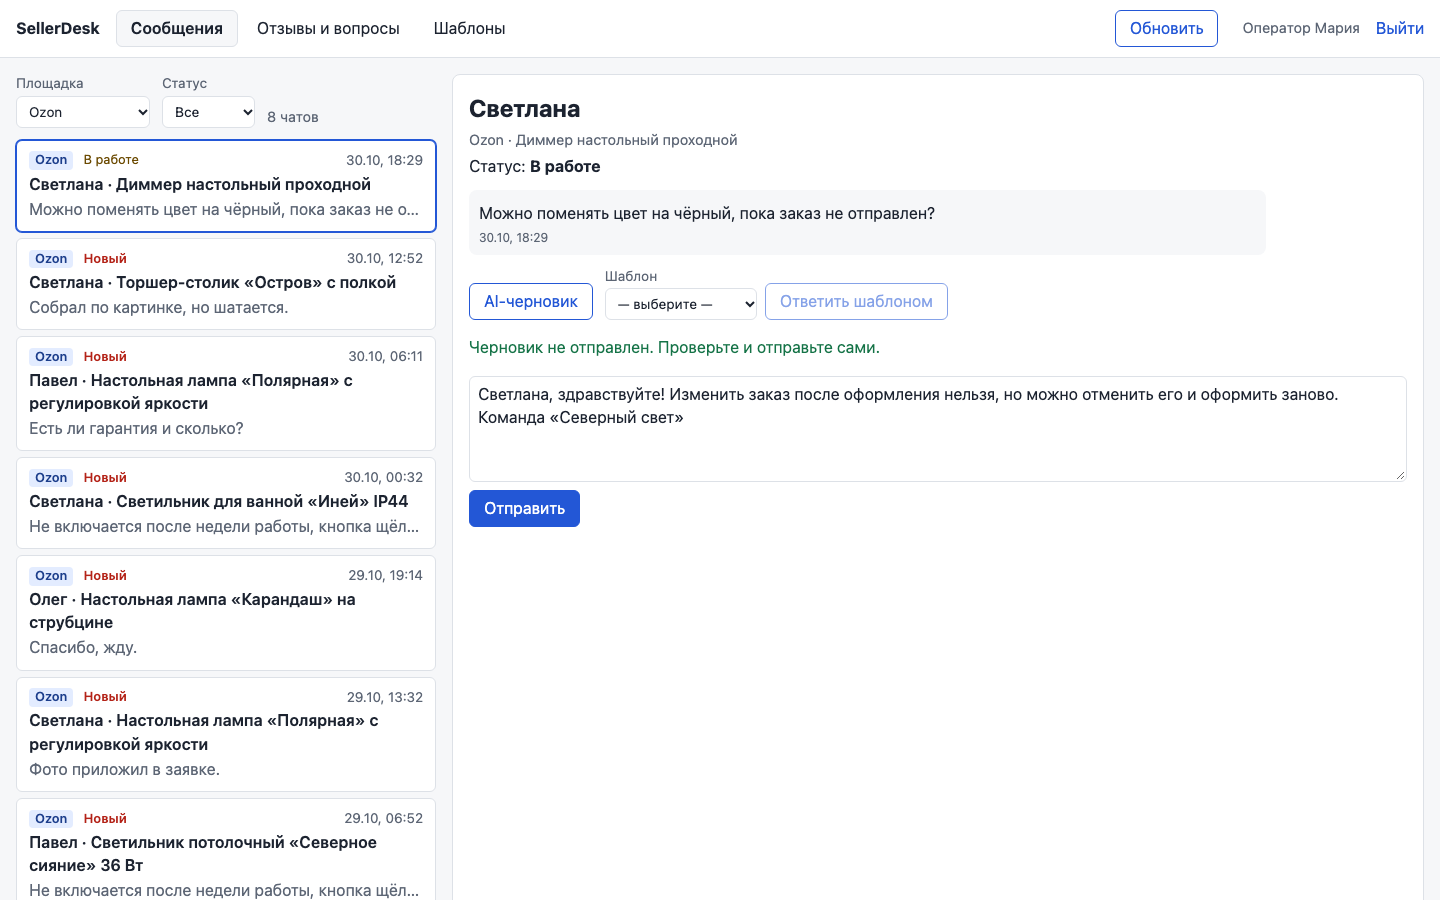
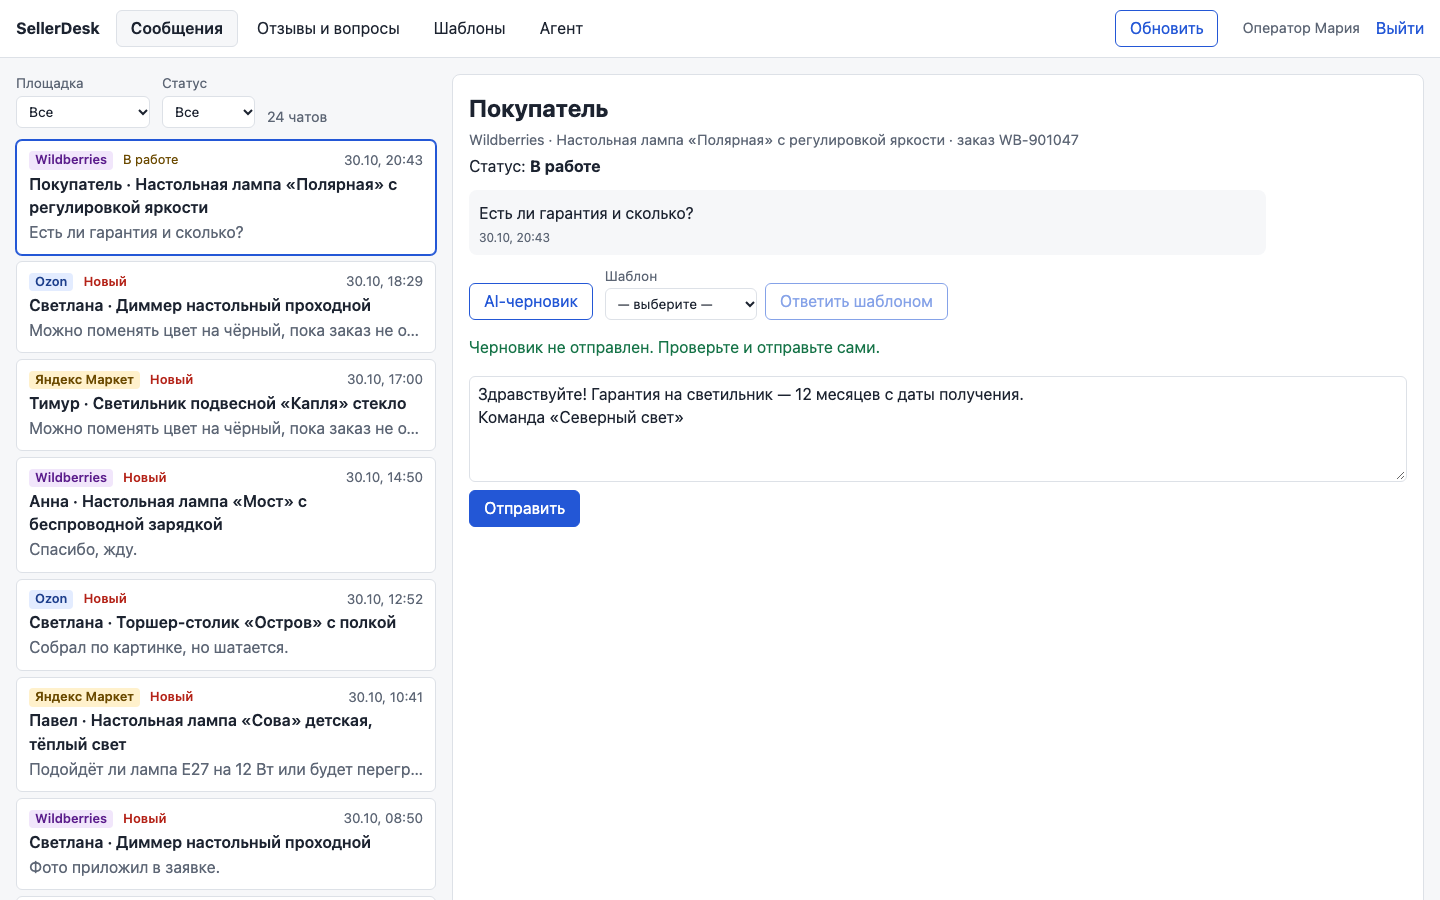
docs: третий круг ревью SD-01…SD-06 в 04, агент в анализе, разведённые BPMN
Круг SD (версия 0.4) добавлен в 04, агент — круги 4 и 5; итого 43 находки.
US-07, UC-07/08 с Таймером и LLM, таблицы agent_* в ER, трассировка US-07.
Ветки шлюзов в as-is и to-be не идут сквозь задачи, exporter убран.
Скриншот чатов с фильтром «Все», неиспользуемый agent-mobile.png удалён.
Повторное ревью агента: отдельная сессия Claude Code и Codex.

diff --git a/backend/tests/integration/test_review_round3.py b/backend/tests/integration/test_review_round3.py
@@ -1,4 +1,7 @@
-"""Третий круг ревью Codex: BUG-12 (reset), BUG-14 (повтор после синхронизации), BUG-15 (поздний черновик)."""
+"""Третий круг ревью Codex.
+
+SD-01 (reset, дополнение к BUG-12), BUG-14 (повтор после синхронизации), BUG-15 (поздний черновик).
+"""
 
 import pytest
 from sqlalchemy import func, select

diff --git a/docs/04-ai-development.md b/docs/04-ai-development.md
@@ -25,7 +25,7 @@ flowchart LR
 1. Постановка, требования, ADR — я, черновики Claude Code.
 2. Модель данных, заглушки, синхронизация, ответы, шаблоны — Claude Code; приёмка по тестам гонки и подстановки.
 3. OpenAPI, фронт, e2e — Claude Code.
-4. Ревью — Codex и повторное ревью, четыре круга; тест на находку и фикс пишет Claude Code, подтверждение падением и проверка откатом — я.
+4. Ревью — пять кругов; тест на находку и фикс пишет Claude Code, подтверждение падением и проверка откатом — я.
 
 ## Ревью, круг 1: весь кейс
 
@@ -64,7 +64,24 @@ flowchart LR
 [test_mock_marketplace.py](../backend/tests/unit/test_mock_marketplace.py),
 [review-findings.test.tsx](../frontend/src/__tests__/review-findings.test.tsx).
 
-## Ревью, круг 3: агент-маркетолог
+## Ревью, круг 3: версия с Claude API
+
+Codex, весь код версии 0.4 после подключения провайдера Claude API. 6 находок, все исправлены.
+BUG-13 закрыт двумя коммитами: на коммите с тестом `make test` красный.
+
+| Находка | Подтверждено | Тест |
+|---|---|---|
+| SD-01. `app.cli reset` стирал схему и на рабочей базе (дополнение к BUG-12) | да | `test_reset_refuses_working_database` |
+| SD-02. Текст с неподставленной `{{переменной}}` уходил покупателю (BUG-13) | да | [test_bug13_unresolved_template.py](../backend/tests/integration/test_bug13_unresolved_template.py) |
+| SD-03. Повтор ответа после синхронизации падал 500 (BUG-14) | да | `test_bug14_*` |
+| SD-04. Поздний AI-черновик возвращал отвеченный чат в работу (BUG-15) | да | `test_bug15_*` |
+| SD-05. Одна ошибка сети останавливала опрос синхронизации | да | Vitest «SD-05» |
+| SD-06. Без sessionStorage вход терялся | да | [token-storage.test.ts](../frontend/src/__tests__/token-storage.test.ts) |
+
+Тесты SD-01, SD-03, SD-04: [test_review_round3.py](../backend/tests/integration/test_review_round3.py),
+SD-05: [review-findings.test.tsx](../frontend/src/__tests__/review-findings.test.tsx).
+
+## Ревью, круг 4: агент-маркетолог
 
 Модуль агента писал Claude Code по брифу, ревьюил Codex до первого коммита модуля. 9 находок,
 по каждой сначала тест, потом фикс.
@@ -73,7 +90,7 @@ flowchart LR
 |---|---|---|
 | A-01. Телефон с точками или скобками уходил в модель без маски | да | `test_phone_in_any_format_*` |
 | A-02. Ответ модели, потерянный при падении, не списывался из бюджета | да | `test_lost_response_is_charged_by_reservation_*` |
-| A-03. Временная ошибка модели убивала прогон, новый прогон повторял сделанное | да | `test_transient_provider_error_resumes_same_run` |
+| A-03. Временная ошибка модели убивала прогон, новый прогон повторял сделанное | да | `test_transient_error_is_retried_with_pause_inside_one_launch` |
 | A-04. `POST /api/agent/runs` не мог возобновить брошенный прогон | да | `test_api_start_resumes_run_with_expired_lease` |
 | A-05. Фоновая задача из API могла создать второй прогон | да | `test_run_with_id_only_claims_that_run_*` |
 | A-06. Одна ошибка опроса навсегда останавливала обновление вкладки | да | Vitest «одна ошибка 503 не останавливает опрос» |
@@ -84,9 +101,12 @@ flowchart LR
 Тесты: [test_agent.py](../backend/tests/integration/test_agent.py), [test_pii.py](../backend/tests/unit/test_pii.py),
 [agent-page.test.tsx](../frontend/src/__tests__/agent-page.test.tsx).
 
-## Ревью, круг 4: повторное ревью агента
+## Ревью, круг 5: повторное ревью агента
 
-Повторное ревью после коммита модуля: другой ревьюер, только дифф. 11 находок, 9 исправлены, 2 отложены.
+Коды R4 остались от прежней нумерации кругов: так находки названы в коммитах.
+
+Повторное ревью после коммита модуля: отдельная сессия Claude Code без контекста разработки
+и Codex параллельно, расхождения сведены в один список. 11 находок, 9 исправлены, 2 отложены.
 Сначала красный тест, потом фикс.
 
 | Находка | Подтверждено | Тест |

diff --git a/docs/02-analysis/use-cases.md b/docs/02-analysis/use-cases.md
@@ -5,6 +5,7 @@ flowchart LR
     op([Оператор])
     mp([Площадка])
     llm([LLM])
+    timer([Таймер])
     subgraph SellerDesk
         uc1((Лента))
         uc2((Ответ в чате))
@@ -12,11 +13,16 @@ flowchart LR
         uc4((Шаблон))
         uc5((Отзыв))
         uc6((Обновить))
+        uc7((Недельный разбор))
+        uc8((Согласовать предложение))
     end
     op --- uc1 & uc2 & uc4 & uc5 & uc6
     uc2 -. include .-> uc3
     uc3 --- llm
     uc2 & uc5 & uc6 --- mp
+    timer --- uc7
+    op --- uc7 & uc8
+    uc7 --- llm
 ```
 
 ## UC-02. Ответ в чате
@@ -27,5 +33,25 @@ flowchart LR
 
 Исключения: повтор с тем же ключом возвращает отправленное; тот же ключ с другим текстом — 409;
 площадка недоступна — 502, текст остаётся.
+
+## UC-07. Недельный разбор агентом
+
+Акторы: Таймер (systemd, раз в неделю), LLM, Оператор (может запустить вручную во вкладке «Агент»).
+
+1. Таймер запускает `python -m app.cli agent run`. Если прогон с живой арендой уже идёт, второй не создаётся.
+2. Агент берёт отзывы, вопросы и чаты за неделю из своей базы. Площадки он не опрашивает.
+3. Тексты проходят маскирование телефонов, e-mail и номеров заказов и пачками уходят LLM на классификацию.
+4. По частым темам LLM готовит предложения: шаблон ответа или правку карточки. Они сохраняются со статусом «ждёт решения».
+5. Каждый шаг, чекпоинт и расход токенов фиксируются одной транзакцией, событие пишется в журнал.
+
+Исключения: временная ошибка LLM — пауза и повтор шага, после трёх подряд прогон «ошибка»;
+бюджет кончился — «бюджет исчерпан», сделанное остаётся; процесс упал — следующий запуск
+продолжает с первого несохранённого шага, а если период устарел, закрывает прогон и начинает новый.
+
+## UC-08. Согласовать предложение
+
+Оператор открывает вкладку «Агент», смотрит предложение и примеры обращений, одобряет или отклоняет.
+Одобренный шаблон становится шаблоном ответа, правка карточки только помечается одобренной:
+записи в площадку нет. Повторное решение — 409.
 
 Остальные сценарии короче и описаны в [историях](user-stories.md).

diff --git a/docs/03-design/er.md b/docs/03-design/er.md
@@ -25,6 +25,38 @@ erDiagram
         int rating
         text answer_text
     }
+    agent_runs ||--o{ agent_events : ""
+    agent_runs ||--o{ agent_proposals : ""
+    operators |o--o{ agent_proposals : "decided_by"
+    agent_runs {
+        string kind
+        string status
+        timestamptz period_from
+        timestamptz period_to
+        jsonb checkpoint
+        int tokens_used
+        int token_budget
+        int steps_done
+        int max_steps
+        timestamptz lease_until
+        timestamptz heartbeat_at
+    }
+    agent_events {
+        int run_id
+        int step
+        string kind
+        text message
+        int tokens
+    }
+    agent_proposals {
+        int run_id
+        string theme_key
+        string kind
+        text body
+        jsonb evidence
+        string status
+        int decided_by
+    }
     sync_jobs {
         string status
         timestamptz created_at
@@ -32,7 +64,7 @@ erDiagram
     }
 ```
 
-Ещё две таблицы без связей: `operators` и `reply_templates`.
+Ещё таблица без связей: `reply_templates`. `operators` связана только с решениями по предложениям агента.
 
 - `chats`, `feedback`: (marketplace, external_id) — уникальная пара, ключ upsert синхронизации.
 - `chats.status` — `new` → `in_progress` → `answered`.
@@ -40,5 +72,9 @@ erDiagram
 - `messages.idempotency_key` — уникален в чате, повтор возвращает то же сообщение.
 - `feedback.answer_text` — ставится условным UPDATE `WHERE answer_text IS NULL`.
 - `sync_jobs.status` — одна активная задача, частичный уникальный индекс.
+- `agent_runs.status` — `queued` → `running` → `succeeded` / `failed` / `budget_exhausted`; один активный прогон на вид (`kind`), частичный уникальный индекс.
+- `agent_runs.checkpoint` — стадия, курсор и резерв токенов; `lease_until` и `heartbeat_at` — аренда, по ней брошенный прогон подбирает следующий запуск.
+- `agent_events.kind` — `step_started`, `step_done`, `llm_call`, `budget_stop`, `stage_cut`, `error`, `resumed`.
+- `agent_proposals`: (run_id, theme_key, kind) — уникальная тройка, повтор шага не дублирует предложение; `kind` — `reply_template` или `card_edit`, `status` — `pending` → `approved` / `rejected`.
 
 Время везде `timestamptz`, API отдаёт UTC.

diff --git a/docs/06-bugs.md b/docs/06-bugs.md
@@ -1,6 +1,7 @@
 # 06. Баги и регрессионные тесты
 
-BUG-01 и BUG-02 заложил в план тестов до кода, BUG-06, 07, 10 нашло ревью Codex, BUG-11 и BUG-12 — повторное ревью.
+BUG-01 и BUG-02 заложил в план тестов до кода, BUG-06, 07, 10 нашёл первый круг ревью Codex, BUG-13…15 — третий круг,
+BUG-11 и BUG-12 — повторная проверка вне кругов (скриншот и аудит тестов).
 
 ## BUG-01. Двойной клик — два ответа покупателю
 
@@ -77,4 +78,4 @@ BUG-01 и BUG-02 заложил в план тестов до кода, BUG-06, 
 - Тест: `test_bug15_*` в [test_review_round3.py](../backend/tests/integration/test_review_round3.py): провайдер-заглушка отправляет ответ внутри расчёта черновика, статус остаётся `answered`.
 
 Ещё 3 бага (дубли при синхронизации, XSS в отзыве, `{{Buyer_Name}}` буквально) — в [CHANGELOG](CHANGELOG.md),
-все 37 находок ревью по кругам — в [04](04-ai-development.md).
+все 43 находки ревью по пяти кругам — в [04](04-ai-development.md).

diff --git a/docs/02-analysis/user-stories.md b/docs/02-analysis/user-stories.md
@@ -21,3 +21,9 @@
 
 **US-06. Обновить** (FR-02, FR-10).
 - Given синхронизация идёт, When жму «Обновить» ещё раз, Then вторая задача не создаётся.
+
+**US-07. Недельный разбор агентом** (FR-12, FR-13), чтобы видеть повторяющиеся претензии без ручного чтения.
+- Given за неделю есть отзывы и чаты с одной претензией, When сработал таймер, Then во вкладке «Агент» предложение шаблона с примерами обращений, покупатели ничего не получили.
+- Given прогон упал после классификации, When таймер запустил его снова, Then классификация не повторяется и предложения не дублируются.
+- Given бюджет токенов кончился, When прогон остановился, Then статус «бюджет исчерпан», сделанное сохранено.
+- Given предложение шаблона, When я его одобряю, Then шаблон появился во вкладке «Шаблоны»; повторное одобрение даёт 409.

diff --git a/docs/05-testing.md b/docs/05-testing.md
@@ -21,7 +21,7 @@
 | US-04 Отзывы | `test_feedback_api.py`, `UserText.test.tsx`, e2e US-04, BUG-04 |
 | US-05 Шаблоны | `test_templating.py`, `test_templates_api.py`, `test_cr11_*`, Vitest CR-04, e2e US-05 |
 | US-06 Обновить | `test_sync.py`, `test_cr06/07_*`, `test_r2_*`, Vitest CR-08, CR-09, e2e US-06 |
-| FR-12, FR-13 Агент | `test_agent.py`, `test_agent_insights.py`, `test_pii.py`, `test_compose.py`, `agent-page.test.tsx`, e2e агента |
+| US-07 Агент (FR-12, FR-13) | `test_agent.py`, `test_agent_insights.py`, `test_pii.py`, `test_compose.py`, `agent-page.test.tsx`, e2e агента |
 | FR-09, NFR-04, NFR-05 | `test_security.py`, e2e NFR-04, `test_openapi_*`, `test_models_match_*` |
 
 ## Прогон 2026-11-04 (v0.5.0)

diff --git a/docs/CHANGELOG.md b/docs/CHANGELOG.md
@@ -16,6 +16,7 @@
 - Находки ревью Codex A-01…A-09 до первого коммита модуля, см. `docs/04-ai-development.md`.
 
 ## [0.4.0] — 2026-11-04
+Третий круг ревью Codex: SD-01…SD-06, см. `docs/04-ai-development.md`.
 ### Добавлено
 - Провайдер Claude API за интерфейсом `LLMProvider`, включается `LLM_PROVIDER=anthropic`; по умолчанию заглушка.
 - Маскирование телефонов, e-mail и номеров заказов перед отправкой модели; имя покупателя в запрос не уходит.

diff --git a/docs/02-analysis/processes.md b/docs/02-analysis/processes.md
@@ -9,7 +9,7 @@ flowchart LR
     A([Покупатель пишет]) --> B[Площадка хранит обращение]
     B --> C[Оператор открывает кабинет N]
     C --> D{Есть новые?}
-    D -- нет --> C
+    D -- нет --> N[Переходит к следующему кабинету] --> C
     D -- да --> F[Ищет ответ в заметках, правит имя и товар]
     F --> H[Отправляет в кабинете]
 ```
